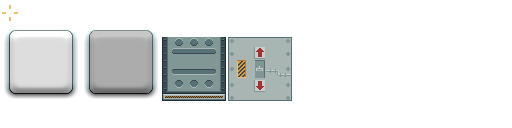
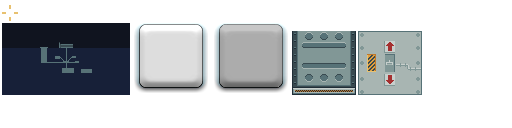
added level finish screen, wip

diff --git a/source code/core/src/no/sandramoen/commanderqueen/screens/shell/LevelFinishScreen.java b/source code/core/src/no/sandramoen/commanderqueen/screens/shell/LevelFinishScreen.java
@@ -1,0 +1,119 @@
+package no.sandramoen.commanderqueen.screens.shell;
+
+import com.badlogic.gdx.Gdx;
+import com.badlogic.gdx.Input;
+import com.badlogic.gdx.graphics.Color;
+import com.badlogic.gdx.graphics.g2d.BitmapFont;
+import com.badlogic.gdx.scenes.scene2d.ui.Image;
+import com.badlogic.gdx.scenes.scene2d.ui.Label;
+import com.badlogic.gdx.scenes.scene2d.ui.Stack;
+import com.badlogic.gdx.scenes.scene2d.ui.Table;
+import com.badlogic.gdx.utils.Array;
+import com.github.tommyettinger.textra.TypingLabel;
+
+import no.sandramoen.commanderqueen.utils.BaseGame;
+import no.sandramoen.commanderqueen.utils.BaseScreen;
+
+public class LevelFinishScreen extends BaseScreen {
+
+    private Image mapimage = new Image(BaseGame.textureAtlas.findRegion("map0"));
+
+    private TypingLabel nameLabel;
+    private TypingLabel statusLabel;
+    private TypingLabel killNameLabel;
+    private TypingLabel killCountLabel;
+    private TypingLabel itemsNameLabel;
+    private TypingLabel itemsCountLabel;
+    private TypingLabel secretsNameLabel;
+    private TypingLabel secretsCountLabel;
+    private TypingLabel timeLabel;
+    private TypingLabel parLabel;
+
+    public LevelFinishScreen(Array args) {
+        if (args.size != 6)
+            Gdx.app.error(getClass().getSimpleName(), "Error: Missing level data, size is " + args.size);
+
+        nameLabel = initializeLabel(args.get(0).toString());
+        nameLabel.setColor(BaseGame.whiteColor);
+        statusLabel = initializeLabel("Finished");
+        killNameLabel = initializeLabel("Kills");
+        killCountLabel = initializeLabel(args.get(1).toString() + "%");
+        itemsNameLabel = initializeLabel("Items");
+        itemsCountLabel = initializeLabel(args.get(2).toString() + "%");
+        secretsNameLabel = initializeLabel("Secrets");
+        secretsCountLabel = initializeLabel(args.get(3).toString() + "%");
+        timeLabel = initializeLabel("Time " + formatTime((float) args.get(4)));
+        parLabel = initializeLabel("Par " + formatTime((float) args.get(5)));
+
+        Table table = new Table();
+        table.add(nameLabel).colspan(2).center().row();
+        table.add(statusLabel).colspan(2).center().spaceTop(Gdx.graphics.getHeight() * .025f).row();
+        table.defaults().spaceTop(Gdx.graphics.getHeight() * .1f).expandX();
+        table.add(killNameLabel).left();
+        table.add(killCountLabel).right().row();
+        table.add(itemsNameLabel).left();
+        table.add(itemsCountLabel).right().row();
+        table.add(secretsNameLabel).left();
+        table.add(secretsCountLabel).right().row();
+        table.add(timeLabel).left();
+        table.add(parLabel).right();
+
+        /*table.setDebug(true);*/
+        table.padRight(Gdx.graphics.getWidth() * .1f).padLeft(Gdx.graphics.getWidth() * .1f);
+        table.padTop(Gdx.graphics.getHeight() * .01f).padBottom(Gdx.graphics.getHeight() * .01f);
+
+        mapimage.setSize(Gdx.graphics.getWidth(), Gdx.graphics.getHeight());
+
+        Stack stack = new Stack();
+        stack.add(mapimage);
+        stack.add(table);
+
+        uiTable.add(stack).width(Gdx.graphics.getWidth()).height(Gdx.graphics.getHeight());
+        /*uiTable.setDebug(true);*/
+    }
+
+
+    @Override
+    public void initialize() {
+    }
+
+    @Override
+    public void update(float delta) {
+
+    }
+
+    @Override
+    public boolean keyDown(int keycode) {
+        if (keycode == Input.Keys.ESCAPE || keycode == Input.Keys.Q)
+            BaseGame.setActiveScreen(new MenuScreen());
+        return super.keyDown(keycode);
+    }
+
+    private TypingLabel initializeLabel(String string) {
+        TypingLabel label = new TypingLabel(string, new Label.LabelStyle(BaseGame.mySkin.get("arcade64", BitmapFont.class), null));
+        label.setColor(BaseGame.redColor);
+        label.font.scaleTo(Gdx.graphics.getWidth() * .03f, Gdx.graphics.getHeight() * .03f);
+        return label;
+    }
+
+    private String formatTime(float time) {
+        int hours = (int) (time / 3600);
+        int remainder = (int) time - hours * 3600;
+        int minutes = remainder / 60;
+        remainder = remainder - minutes * 60;
+        int seconds = remainder;
+
+        String temp0 = String.valueOf(hours);
+        String temp1 = String.valueOf(minutes);
+        String temp2 = String.valueOf(seconds);
+
+        if (hours <= 9)
+            temp0 = "0" + hours;
+        if (minutes <= 9)
+            temp1 = "0" + minutes;
+        if (seconds <= 9)
+            temp2 = "0" + seconds;
+
+        return temp0 + ":" + temp1 + ":" + temp2;
+    }
+}

diff --git a/source code/core/src/no/sandramoen/commanderqueen/screens/gameplay/LevelScreen.java b/source code/core/src/no/sandramoen/commanderqueen/screens/gameplay/LevelScreen.java
@@ -31,6 +31,7 @@ import no.sandramoen.commanderqueen.screens.gameplay.level.BarrelExplosionHandle
 import no.sandramoen.commanderqueen.screens.gameplay.level.EnemyHandler;
 import no.sandramoen.commanderqueen.screens.gameplay.level.MapLoader;
 import no.sandramoen.commanderqueen.actors.utils.TilemapActor;
+import no.sandramoen.commanderqueen.screens.shell.LevelFinishScreen;
 import no.sandramoen.commanderqueen.screens.shell.MenuScreen;
 import no.sandramoen.commanderqueen.utils.BaseGame;
 import no.sandramoen.commanderqueen.utils.BaseScreen3D;
@@ -59,6 +60,8 @@ public class LevelScreen extends BaseScreen3D {
     private BulletDecals bulletDecals;
     private BloodDecals bloodDecals;
 
+    private int numEnemies;
+
     @Override
     public void initialize() {
         long startTime = System.currentTimeMillis();
@@ -74,6 +77,8 @@ public class LevelScreen extends BaseScreen3D {
 
         if (!Gdx.input.isCursorCatched())
             Gdx.input.setCursorCatched(true);
+
+        numEnemies = enemies.size;
 
         GameUtils.printLoadingTime(getClass().getSimpleName(), startTime);
     }
@@ -103,9 +108,10 @@ public class LevelScreen extends BaseScreen3D {
 
     @Override
     public boolean keyDown(int keycode) {
-        if (keycode == Keys.ESCAPE || keycode == Keys.Q)
+        if (keycode == Keys.ESCAPE || keycode == Keys.Q) {
+            stopLevel();
             BaseGame.setActiveScreen(new MenuScreen());
-        else if (keycode == Keys.R)
+        } else if (keycode == Keys.R)
             BaseGame.setActiveScreen(new LevelScreen());
         else if (keycode == Keys.Q)
             hud.setInvulnerable();
@@ -134,8 +140,16 @@ public class LevelScreen extends BaseScreen3D {
                     door.openAndClose();
             for (Elevator elevator : mapLoader.elevators)
                 if (player.isWithinDistance(Tile.height * 1.1f, elevator)) {
-                    System.out.println("level complete! " + MathUtils.random(1_000, 9_999));
                     BaseGame.elevatorSound.play(BaseGame.soundVolume);
+                    stopLevel();
+                    Array levelData = new Array();
+                    levelData.add("Hangar");
+                    levelData.add((int) ((1 - (enemies.size / (float) numEnemies)) * 100));
+                    levelData.add(2);
+                    levelData.add(0);
+                    levelData.add(64f);
+                    levelData.add(50f);
+                    BaseGame.setActiveScreen(new LevelFinishScreen(levelData));
                 }
         }
 
@@ -313,5 +327,10 @@ public class LevelScreen extends BaseScreen3D {
         hud.player = player;
         weaponHandler = new WeaponHandler(uiStage, hud, player, shootable, mainStage3D);
         hud.setWeaponsTable(weaponHandler);
+    }
+
+    private void stopLevel() {
+        BaseGame.metalWalkingMusic.stop();
+        BaseGame.level0Music.stop();
     }
 }

diff --git a/source code/core/src/no/sandramoen/commanderqueen/actors/characters/Sersjant.java b/source code/core/src/no/sandramoen/commanderqueen/actors/characters/Sersjant.java
@@ -18,6 +18,7 @@ import no.sandramoen.commanderqueen.utils.pathFinding.TileGraph;
 
 public class Sersjant extends Enemy {
     private Sound shootSound = BaseGame.shotgunSound;
+    private long shootSoundID;
 
     public Sersjant(float y, float z, Stage3D s, Player player, Float rotation, TileGraph tileGraph, Array<Tile> floorTiles, Stage stage, HUD hud, DecalBatch batch) {
         super(y, z, s, player, rotation, tileGraph, floorTiles, stage, hud, batch);
@@ -38,7 +39,7 @@ public class Sersjant extends Enemy {
     public void die() {
         if (!isDead) {
             GameUtils.playSoundRelativeToDistance(BaseGame.menigDeathSound, distanceBetween(player), VOCAL_RANGE);
-            shootSound.stop();
+            shootSound.stop(shootSoundID);
         }
         super.die();
     }
@@ -52,7 +53,7 @@ public class Sersjant extends Enemy {
 
     @Override
     protected void shootSound() {
-        GameUtils.playSoundRelativeToDistance(shootSound, distanceBetween(player), VOCAL_RANGE, .6f);
+        shootSoundID = GameUtils.playSoundRelativeToDistance(shootSound, distanceBetween(player), VOCAL_RANGE, .6f);
         super.shootSound();
     }
 

diff --git a/source code/core/src/no/sandramoen/commanderqueen/utils/GameUtils.java b/source code/core/src/no/sandramoen/commanderqueen/utils/GameUtils.java
@@ -18,7 +18,6 @@ import com.badlogic.gdx.scenes.scene2d.utils.ClickListener;
 import com.badlogic.gdx.utils.Array;
 
 import no.sandramoen.commanderqueen.actors.Tile;
-import no.sandramoen.commanderqueen.actors.pickups.Pickup;
 import no.sandramoen.commanderqueen.actors.utils.baseActors.BaseActor3D;
 
 public class GameUtils {
@@ -124,8 +123,8 @@ public class GameUtils {
         sound.play(BaseGame.soundVolume / GameUtils.normalizeValue(distance, 0f, vocalRange));
     }
 
-    public static void playSoundRelativeToDistance(Sound sound, Float distance, Float vocalRange, Float pitch) {
-        sound.play(BaseGame.soundVolume / GameUtils.normalizeValue(distance, 0f, vocalRange), pitch, 0);
+    public static long playSoundRelativeToDistance(Sound sound, Float distance, Float vocalRange, Float pitch) {
+        return sound.play(BaseGame.soundVolume / GameUtils.normalizeValue(distance, 0f, vocalRange), pitch, 0);
     }
 
     public static void printLoadingTime(String tag, long startTime) {

diff --git a/source code/core/src/no/sandramoen/commanderqueen/actors/characters/enemy/Enemy.java b/source code/core/src/no/sandramoen/commanderqueen/actors/characters/enemy/Enemy.java
@@ -7,7 +7,6 @@ import com.badlogic.gdx.graphics.g2d.Animation;
 import com.badlogic.gdx.graphics.g2d.TextureRegion;
 import com.badlogic.gdx.graphics.g3d.Environment;
 import com.badlogic.gdx.graphics.g3d.ModelBatch;
-import com.badlogic.gdx.graphics.g3d.decals.Decal;
 import com.badlogic.gdx.graphics.g3d.decals.DecalBatch;
 import com.badlogic.gdx.math.MathUtils;
 import com.badlogic.gdx.math.Vector2;

diff --git a/source code/core/src/no/sandramoen/commanderqueen/MyGdxGame.java b/source code/core/src/no/sandramoen/commanderqueen/MyGdxGame.java
@@ -12,8 +12,8 @@ public class MyGdxGame extends BaseGame {
 	public void create() {
 		super.create();
 		// setActiveScreen(new SplashScreen());
-		setActiveScreen(new MenuScreen());
+		// setActiveScreen(new MenuScreen());
 		// setActiveScreen(new OptionsScreen());
-		// setActiveScreen(new LevelScreen());
+		setActiveScreen(new LevelScreen());
 	}
 }
